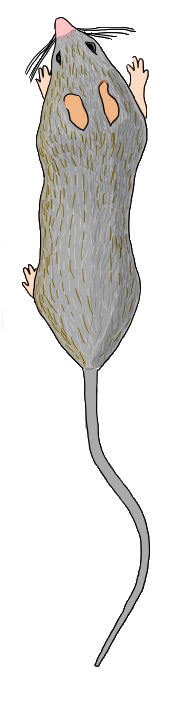
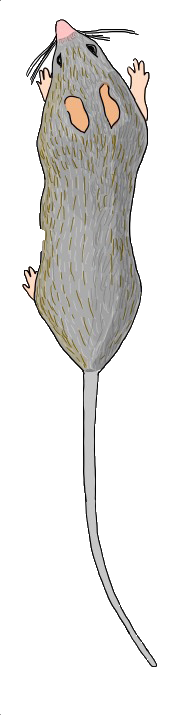
mice can move (finally)

Changed region(s): [[0.1105, 0.0, 0.8564, 0.9538], [0.4144, 0.4, 0.442, 0.4308], [0.3867, 0.3692, 0.4144, 0.4]]

diff --git a/Main_Pro/animalCat.cpp b/Main_Pro/animalCat.cpp
@@ -34,9 +34,10 @@ int animalCat::turnAroundKey(int x)
 void animalCat::paint(QPainter *painter, const QStyleOptionGraphicsItem *, QWidget *)
 {
     QPixmap now = cat_pics.at(phase%5);
+   // QTimer change_direction.start()
 
     //设置图片中心
-    QPointF offset(now.width()/2.0,now.height()/2.0);
+    QPointF offset(now.width()/1.8,now.height()/2.5);
     //QPointF offset(0,0);
     painter->translate(+offset);
 

diff --git a/Main_Pro/animalMice.cpp b/Main_Pro/animalMice.cpp
@@ -9,7 +9,7 @@ animalMice::animalMice(QPoint pos,QObject * pa):
     setPos(this->posInMap());
 
     QString s = ":/Pic/Pics/Mice";
-    for(int i = 1 ;i < 6 ;i ++)
+    for(int i = 0 ;i < 5 ;i ++)
     {
         QString temp(s);
         temp.append(QString::number(i));

diff --git a/Main_Pro/animalMice.h b/Main_Pro/animalMice.h
@@ -6,6 +6,7 @@
 
 class animalMice:public myAnimal,public QGraphicsItem
 {
+    Q_OBJECT
 public:
     animalMice(QPoint,QObject* pa);
     int turnAroundKey(int x) override;

diff --git a/Main_Pro/myAnimal.h b/Main_Pro/myAnimal.h
@@ -19,6 +19,8 @@ public:
 
     QPointF posInMap();
 
+    int currant_direction{0};
+
 private:
     QPoint position;
     int direction = 0;//0 to 5
